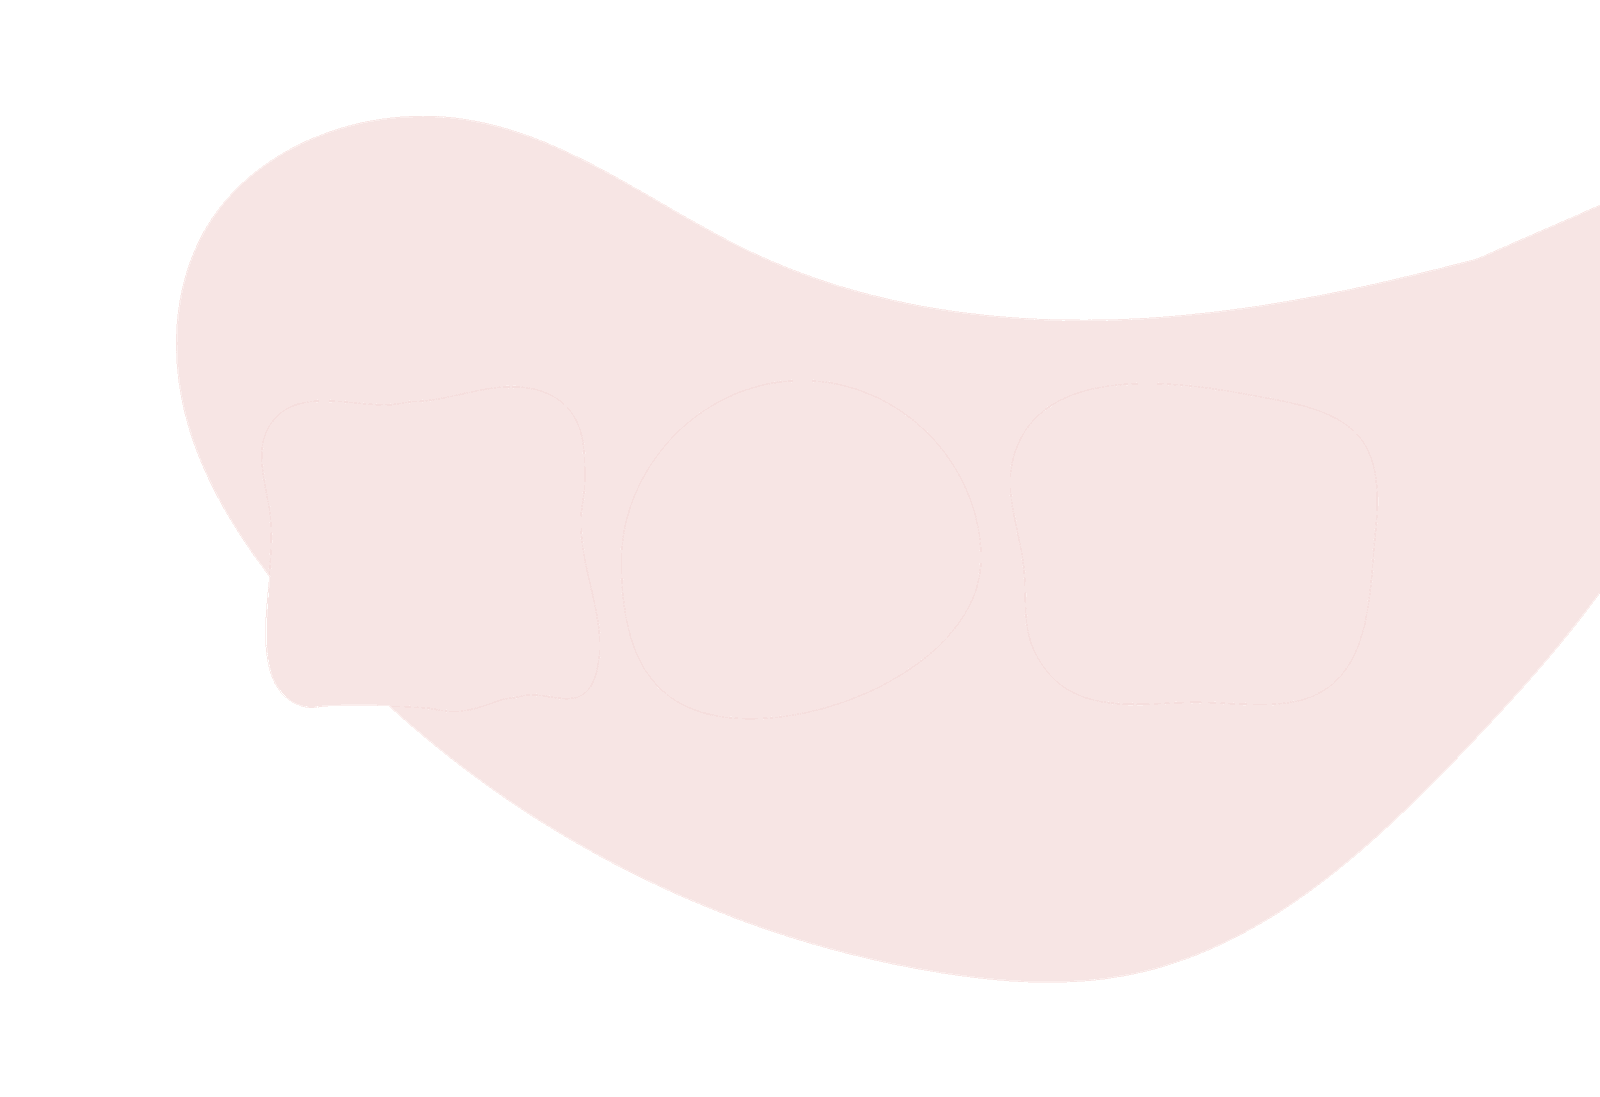
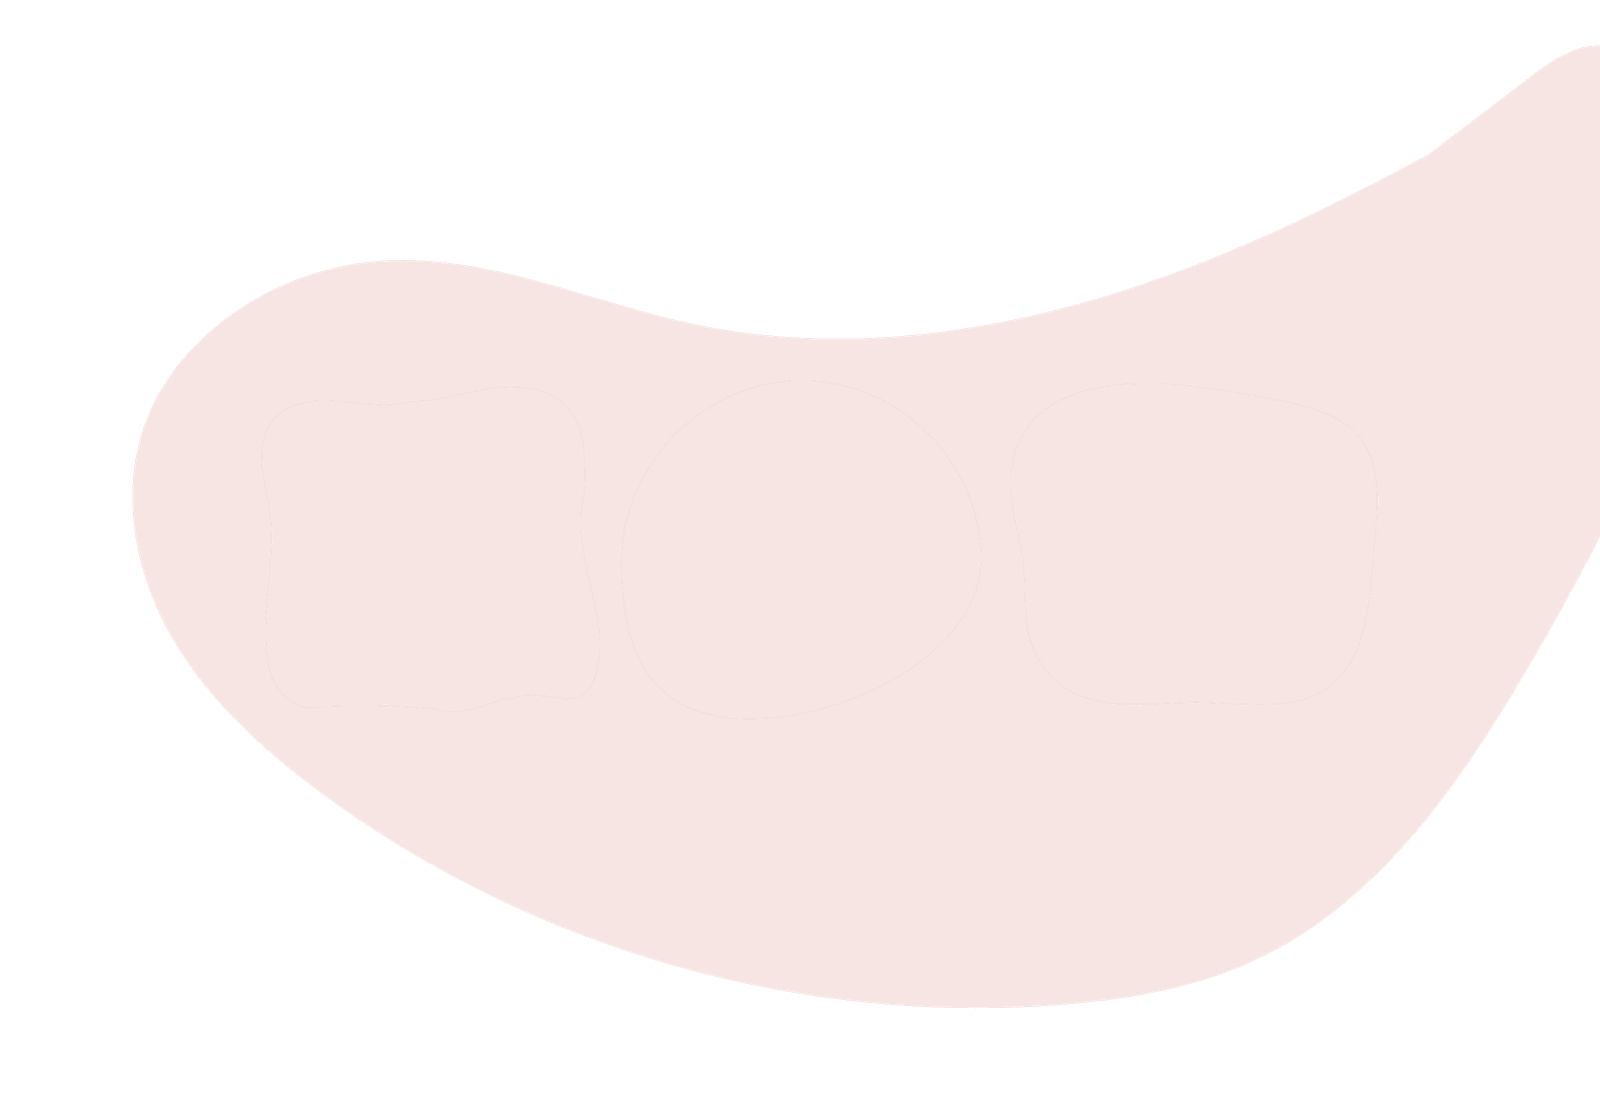
Nudge into the feature stories from the hero, on the redrawn blob
Nothing in the hero pointed anywhere: the store badges are the end of
the road for anyone not ready to install yet. "See how it works" carries
them down to the feature stories, underlined and growing under the
pointer so it reads as something to press rather than a caption. The
arrow is the same drawn one the features intro uses, which is already
this yellow in the file.

The comparison backdrop is rebuilt from the redrawn artwork — the blob
reaches further left and right now. Its shapes have not moved, so the
cards still sit where they sat. The full composite goes: nothing has
referenced it since the shapes became cards.

diff --git a/docs/nav.js b/docs/nav.js
@@ -61,6 +61,20 @@ document.addEventListener('animationend', function (event) {
   }
 });
 
+// The card's own box never moves — only the artwork inside it lifts and turns
+// — so a pointer still within that box has not left the card, whatever the
+// browser reports on the way.
+function isPointerOverCard(card, event) {
+  var box = card.getBoundingClientRect();
+
+  return (
+    event.clientX > box.left &&
+    event.clientX < box.right &&
+    event.clientY > box.top &&
+    event.clientY < box.bottom
+  );
+}
+
 // Only a pointer that can actually hover gets the enter-hop; a touch screen
 // reports an enter around a tap, which the tap has already handled.
 if (canHover) {
@@ -68,8 +82,28 @@ if (canHover) {
   // not bubble: listening higher up would catch the enter into every span
   // inside the card and hop it again on the way to the text.
   Array.prototype.forEach.call(document.querySelectorAll('.flip-card'), function (card) {
+    // One bounce per visit: the enter that starts the hop latches the card,
+    // and only a leave that genuinely takes the pointer off it unlatches.
+    // Without the latch a card that reports an enter again while the mouse
+    // rests on it — the hop and the turn moving its artwork out from under
+    // the cursor is enough — would sit there hopping on the spot.
+    var isHovered = false;
+
     card.addEventListener('pointerenter', function () {
+      if (isHovered) {
+        return;
+      }
+
+      isHovered = true;
       hopCard(card);
+    });
+
+    card.addEventListener('pointerleave', function (event) {
+      if (isPointerOverCard(card, event)) {
+        return;
+      }
+
+      isHovered = false;
     });
   });
 }

diff --git a/docs/styles.css b/docs/styles.css
@@ -298,6 +298,56 @@ h2,
   height: 48px;
 }
 
+/* The nudge under the store badges down to the feature stories. It has to
+   read as tappable on its own — nothing else in the hero is a plain text
+   link — so it carries an underline and grows under the pointer. */
+.hero-jump {
+  display: inline-flex;
+  align-items: center;
+  gap: 2px;
+  margin-top: 18px;
+  padding: 4px 2px;
+  color: var(--warm-charcoal);
+  font-size: 1.05rem;
+  font-weight: 700;
+  letter-spacing: -0.01em;
+  text-decoration: none;
+  transform-origin: left center;
+  transition: transform 220ms cubic-bezier(0.2, 0.7, 0.2, 1);
+}
+
+.hero-jump-text {
+  text-decoration: underline;
+  text-decoration-color: rgba(78, 26, 33, 0.35);
+  text-underline-offset: 5px;
+  text-decoration-thickness: 2px;
+}
+
+.hero-jump:hover,
+.hero-jump:focus-visible {
+  transform: scale(1.1);
+}
+
+.hero-jump:hover .hero-jump-text,
+.hero-jump:focus-visible .hero-jump-text {
+  text-decoration-color: #f3a90a;
+}
+
+/* The arrow is drawn on a canvas with a wide transparent margin, which is
+   what the negative margins take back — the same trick the features arrow
+   below uses. */
+.hero-jump-arrow {
+  width: 74px;
+  height: auto;
+  margin: -28px -19px -28px -17px;
+}
+
+@media (prefers-reduced-motion: reduce) {
+  .hero-jump {
+    transition: none;
+  }
+}
+
 .benefits-section {
   width: 100%;
   padding: 0 0 40px;

diff --git a/docs/index.html b/docs/index.html
@@ -16,7 +16,7 @@
   <link rel="preconnect" href="https://fonts.googleapis.com" />
   <link rel="preconnect" href="https://fonts.gstatic.com" crossorigin />
   <link rel="stylesheet" href="https://fonts.googleapis.com/css2?family=Manrope:wght@500;600;700;800&display=swap" />
-  <link rel="stylesheet" href="./styles.css?v=20260824v" />
+  <link rel="stylesheet" href="./styles.css?v=20260824x" />
   <script src="./nav.js" defer></script>
 </head>
 <body>
@@ -54,6 +54,10 @@
             <a href="https://apps.apple.com/gb/app/livestockbook-animal-records/id6790605803" target="_blank" rel="noreferrer"><img class="store-badge-image" src="./images/app_store.svg" alt="Download LivestockBook on the App Store" /></a>
             <img class="store-badge-image" src="./images/play_store.svg" alt="Google Play badge" />
           </div>
+          <a class="hero-jump" href="#features">
+            <span class="hero-jump-text">See how it works</span>
+            <img class="hero-jump-arrow" src="./images/down-arrow.png" alt="" aria-hidden="true" />
+          </a>
         </div>
       </div>
 

diff --git a/docs/contact.html b/docs/contact.html
@@ -16,7 +16,7 @@
   <link rel="preconnect" href="https://fonts.googleapis.com" />
   <link rel="preconnect" href="https://fonts.gstatic.com" crossorigin />
   <link rel="stylesheet" href="https://fonts.googleapis.com/css2?family=Manrope:wght@500;600;700;800&display=swap" />
-  <link rel="stylesheet" href="./styles.css?v=20260824v" />
+  <link rel="stylesheet" href="./styles.css?v=20260824x" />
   <script src="./nav.js" defer></script>
 </head>
 <body>

diff --git a/docs/guide.html b/docs/guide.html
@@ -16,7 +16,7 @@
   <link rel="preconnect" href="https://fonts.googleapis.com" />
   <link rel="preconnect" href="https://fonts.gstatic.com" crossorigin />
   <link rel="stylesheet" href="https://fonts.googleapis.com/css2?family=Manrope:wght@500;600;700;800&display=swap" />
-  <link rel="stylesheet" href="./styles.css?v=20260824v" />
+  <link rel="stylesheet" href="./styles.css?v=20260824x" />
   <script src="./nav.js" defer></script>
 </head>
 <body>

diff --git a/docs/privacy.html b/docs/privacy.html
@@ -16,7 +16,7 @@
   <link rel="preconnect" href="https://fonts.googleapis.com" />
   <link rel="preconnect" href="https://fonts.gstatic.com" crossorigin />
   <link rel="stylesheet" href="https://fonts.googleapis.com/css2?family=Manrope:wght@500;600;700;800&display=swap" />
-  <link rel="stylesheet" href="./styles.css?v=20260824v" />
+  <link rel="stylesheet" href="./styles.css?v=20260824x" />
   <script src="./nav.js" defer></script>
 </head>
 <body>

diff --git a/docs/about.html b/docs/about.html
@@ -16,7 +16,7 @@
   <link rel="preconnect" href="https://fonts.googleapis.com" />
   <link rel="preconnect" href="https://fonts.gstatic.com" crossorigin />
   <link rel="stylesheet" href="https://fonts.googleapis.com/css2?family=Manrope:wght@500;600;700;800&display=swap" />
-  <link rel="stylesheet" href="./styles.css?v=20260824v" />
+  <link rel="stylesheet" href="./styles.css?v=20260824x" />
 </head>
 <body>
   <header class="site-header">

diff --git a/docs/faq.html b/docs/faq.html
@@ -16,7 +16,7 @@
   <link rel="preconnect" href="https://fonts.googleapis.com" />
   <link rel="preconnect" href="https://fonts.gstatic.com" crossorigin />
   <link rel="stylesheet" href="https://fonts.googleapis.com/css2?family=Manrope:wght@500;600;700;800&display=swap" />
-  <link rel="stylesheet" href="./styles.css?v=20260824v" />
+  <link rel="stylesheet" href="./styles.css?v=20260824x" />
 </head>
 <body>
   <header class="site-header">

diff --git a/docs/terms.html b/docs/terms.html
@@ -16,7 +16,7 @@
   <link rel="preconnect" href="https://fonts.googleapis.com" />
   <link rel="preconnect" href="https://fonts.gstatic.com" crossorigin />
   <link rel="stylesheet" href="https://fonts.googleapis.com/css2?family=Manrope:wght@500;600;700;800&display=swap" />
-  <link rel="stylesheet" href="./styles.css?v=20260824v" />
+  <link rel="stylesheet" href="./styles.css?v=20260824x" />
 </head>
 <body>
   <header class="site-header">
